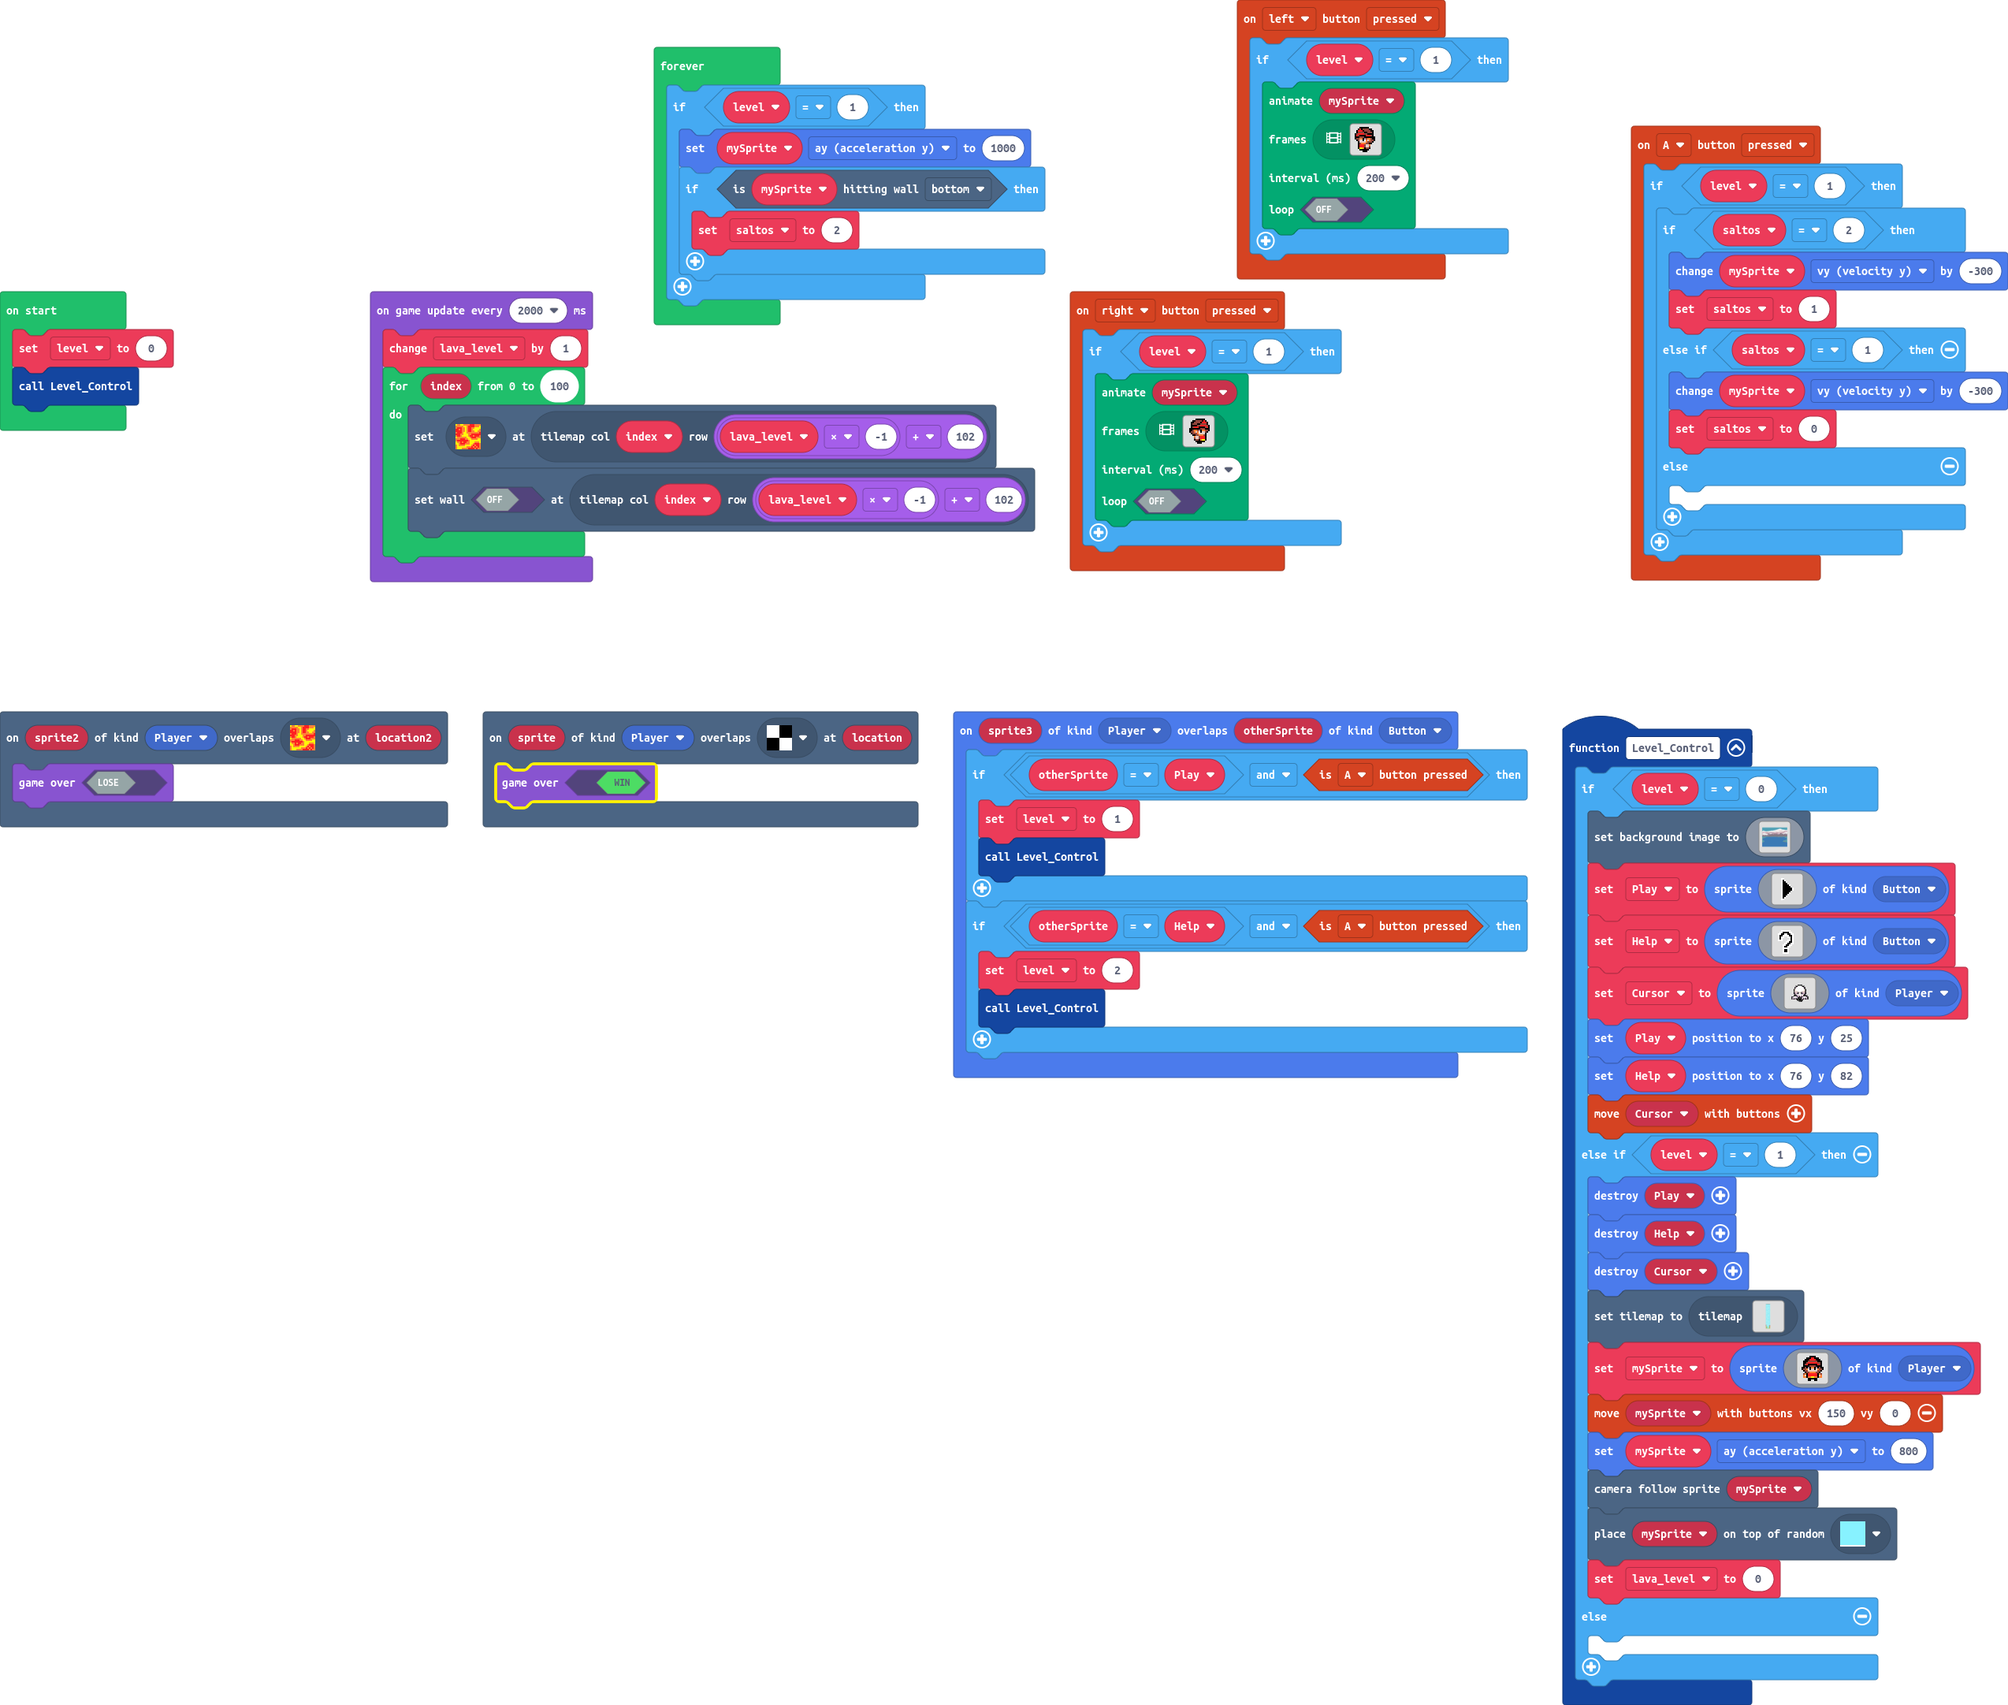
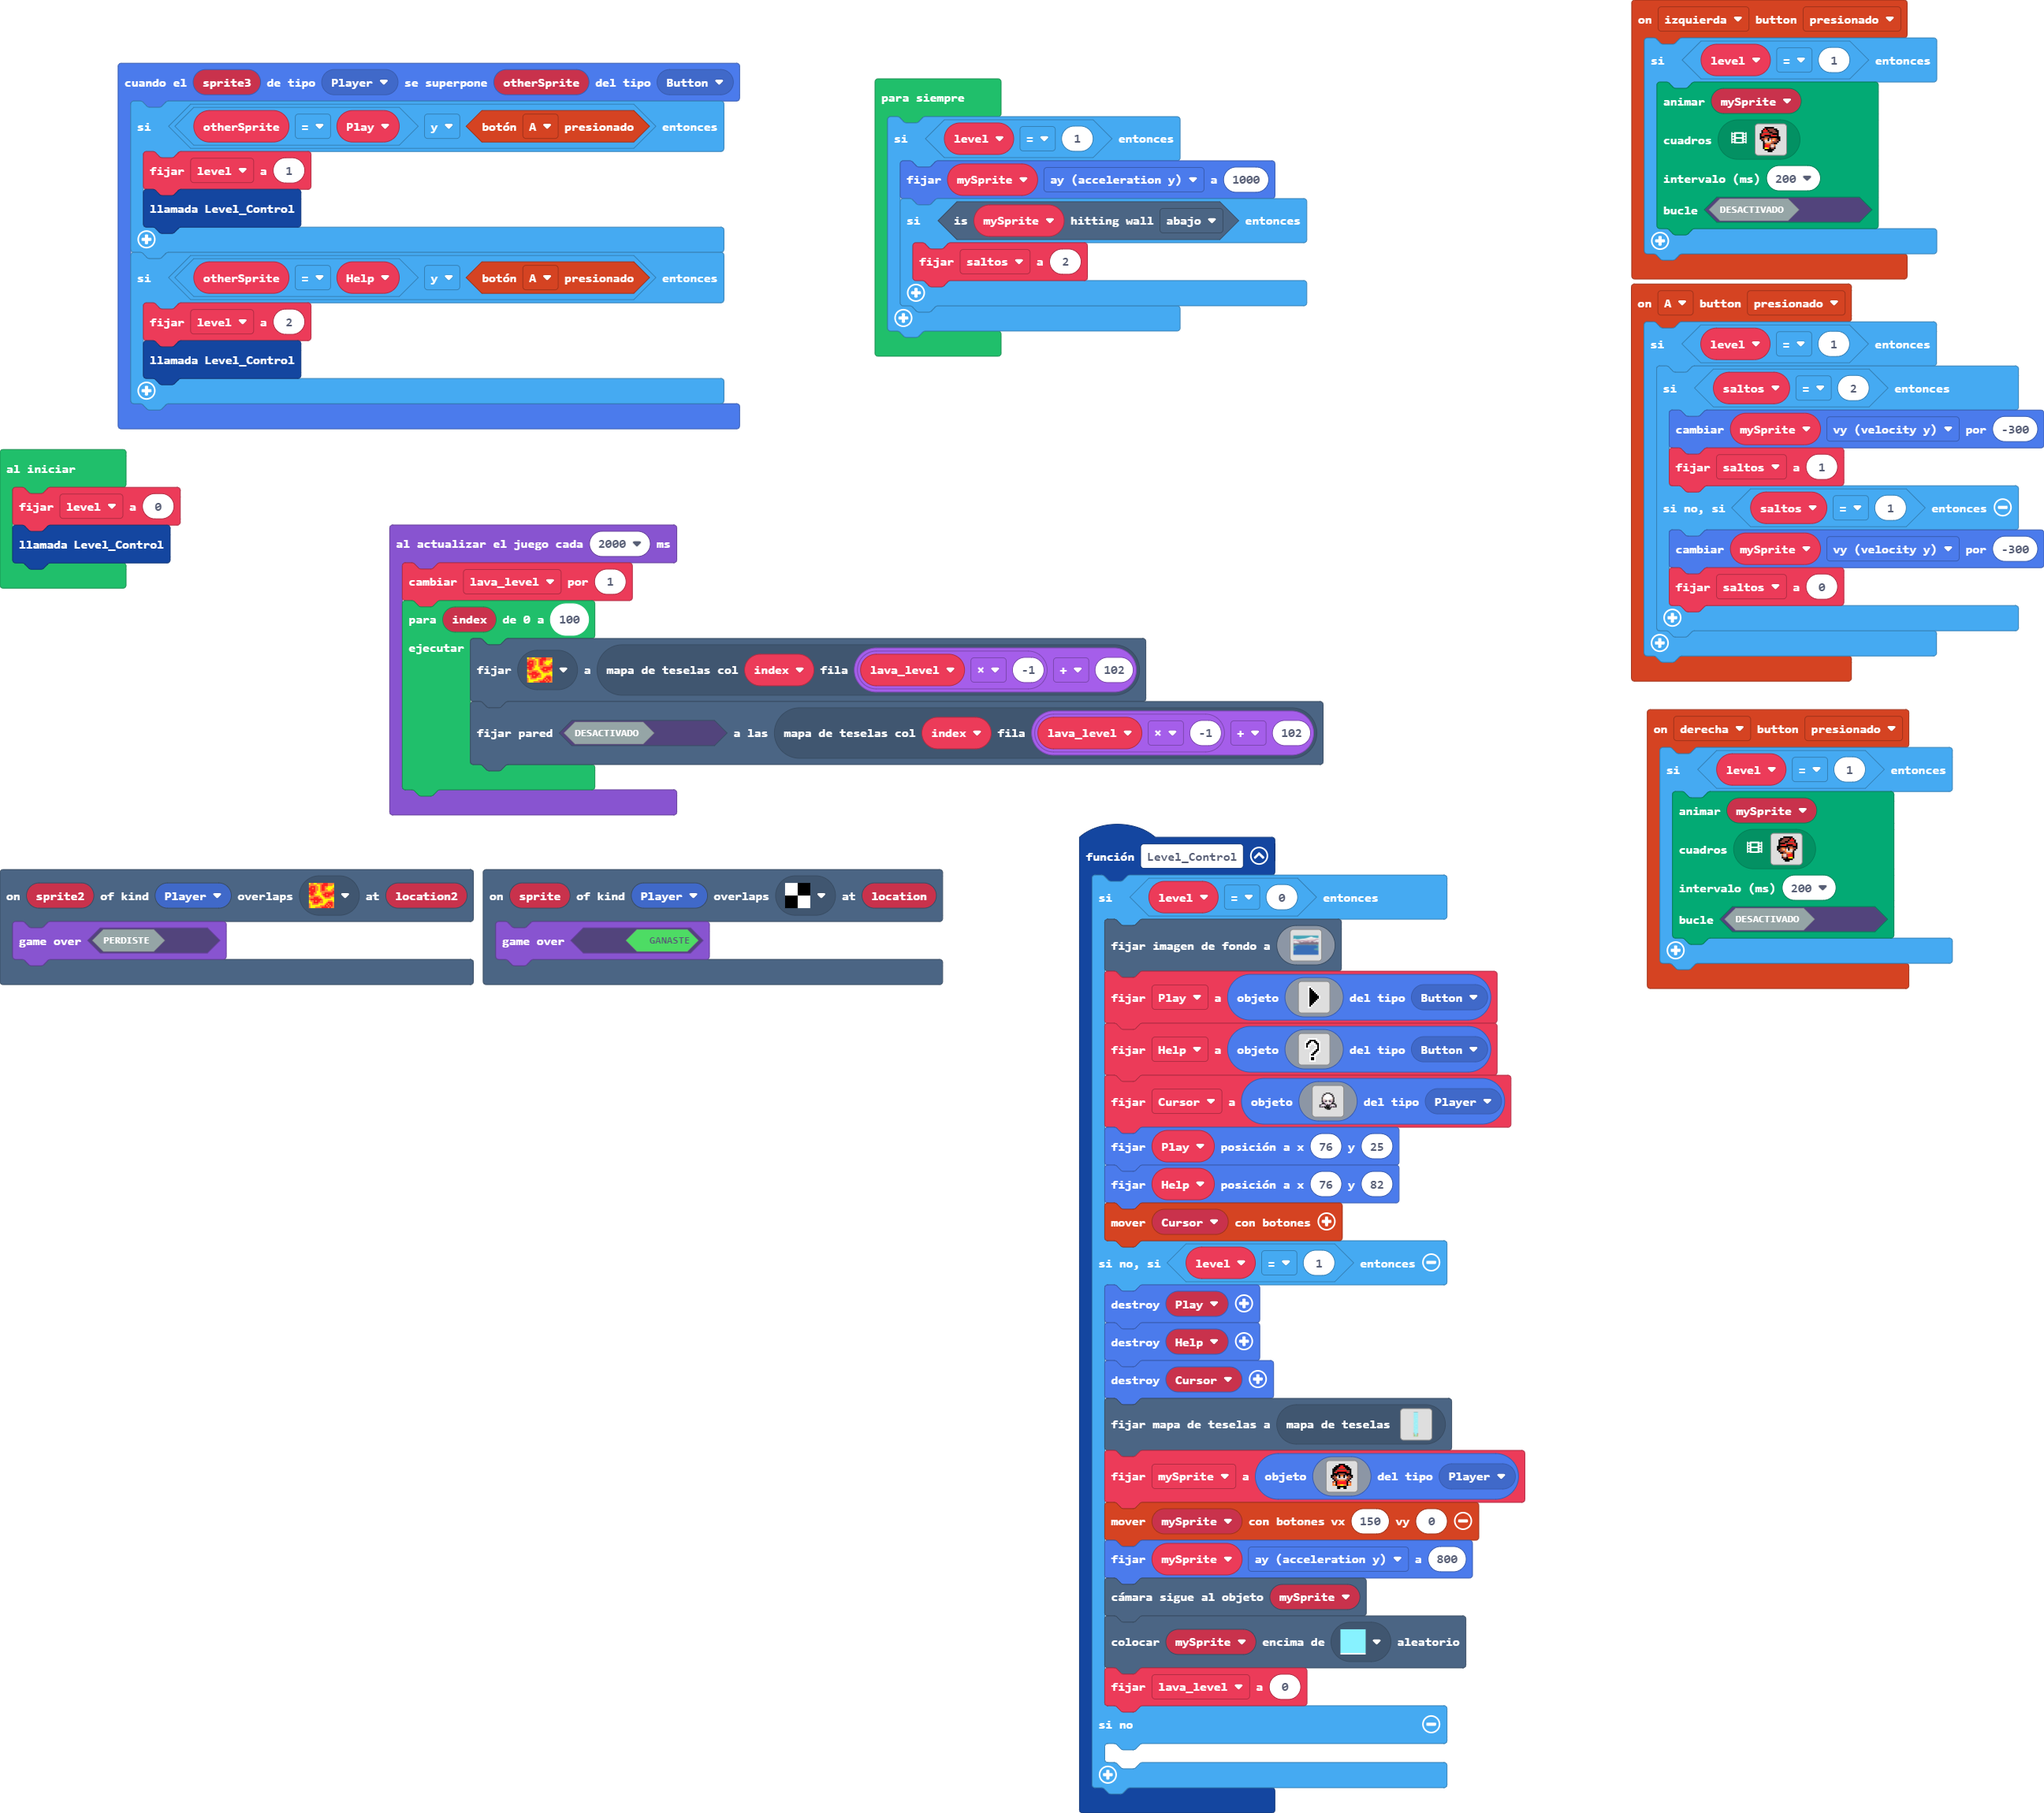
funciona v2

diff --git a/main.ts b/main.ts
@@ -1,24 +1,21 @@
 namespace SpriteKind {
     export const Button = SpriteKind.create()
 }
-controller.A.onEvent(ControllerButtonEvent.Pressed, function () {
-    if (level == 1) {
-        if (saltos == 2) {
-            mySprite.vy += -300
-            saltos = 1
-        } else if (saltos == 1) {
-            mySprite.vy += -300
-            saltos = 0
-        } else {
-        	
-        }
-    }
-})
 scene.onOverlapTile(SpriteKind.Player, assets.tile`lava`, function (sprite2, location2) {
     game.gameOver(false)
 })
 scene.onOverlapTile(SpriteKind.Player, assets.tile`meta`, function (sprite, location) {
     game.gameOver(true)
+})
+controller.right.onEvent(ControllerButtonEvent.Pressed, function () {
+    if (level == 1) {
+        animation.runImageAnimation(
+        mySprite,
+        assets.animation`camina_derecha`,
+        200,
+        false
+        )
+    }
 })
 controller.left.onEvent(ControllerButtonEvent.Pressed, function () {
     if (level == 1) {
@@ -30,14 +27,15 @@ controller.left.onEvent(ControllerButtonEvent.Pressed, function () {
         )
     }
 })
-controller.right.onEvent(ControllerButtonEvent.Pressed, function () {
+controller.A.onEvent(ControllerButtonEvent.Pressed, function () {
     if (level == 1) {
-        animation.runImageAnimation(
-        mySprite,
-        assets.animation`camina_derecha`,
-        200,
-        false
-        )
+        if (saltos == 2) {
+            mySprite.vy += -300
+            saltos = 1
+        } else if (saltos == 1) {
+            mySprite.vy += -300
+            saltos = 0
+        }
     }
 })
 function Level_Control () {
@@ -78,8 +76,8 @@ let lava_level = 0
 let Cursor: Sprite = null
 let Help: Sprite = null
 let Play: Sprite = null
-let mySprite: Sprite = null
 let saltos = 0
+let mySprite: Sprite = null
 let level = 0
 level = 0
 Level_Control()

diff --git a/images.g.ts b/images.g.ts
@@ -1,4 +1,4 @@
-// Auto-generated code. Do not edit.
+// Código generado automáticamente. No editar.
 namespace myImages {
 
     helpers._registerFactory("image", function(name: string) {
@@ -387,4 +387,4 @@ ee888888888888888888888888888888888888888888888888888888888888888888888888888888
     })
 
 }
-// Auto-generated code. Do not edit.
+// Código generado automáticamente. No editar.

diff --git a/tilemap.g.ts b/tilemap.g.ts
@@ -1,4 +1,4 @@
-// Auto-generated code. Do not edit.
+// Código generado automáticamente. No editar.
 namespace myTiles {
     //% fixedInstance jres blockIdentity=images._tile
     export const transparency16 = image.ofBuffer(hex``);
@@ -307,4 +307,4 @@ namespace myTiles {
     })
 
 }
-// Auto-generated code. Do not edit.
+// Código generado automáticamente. No editar.
